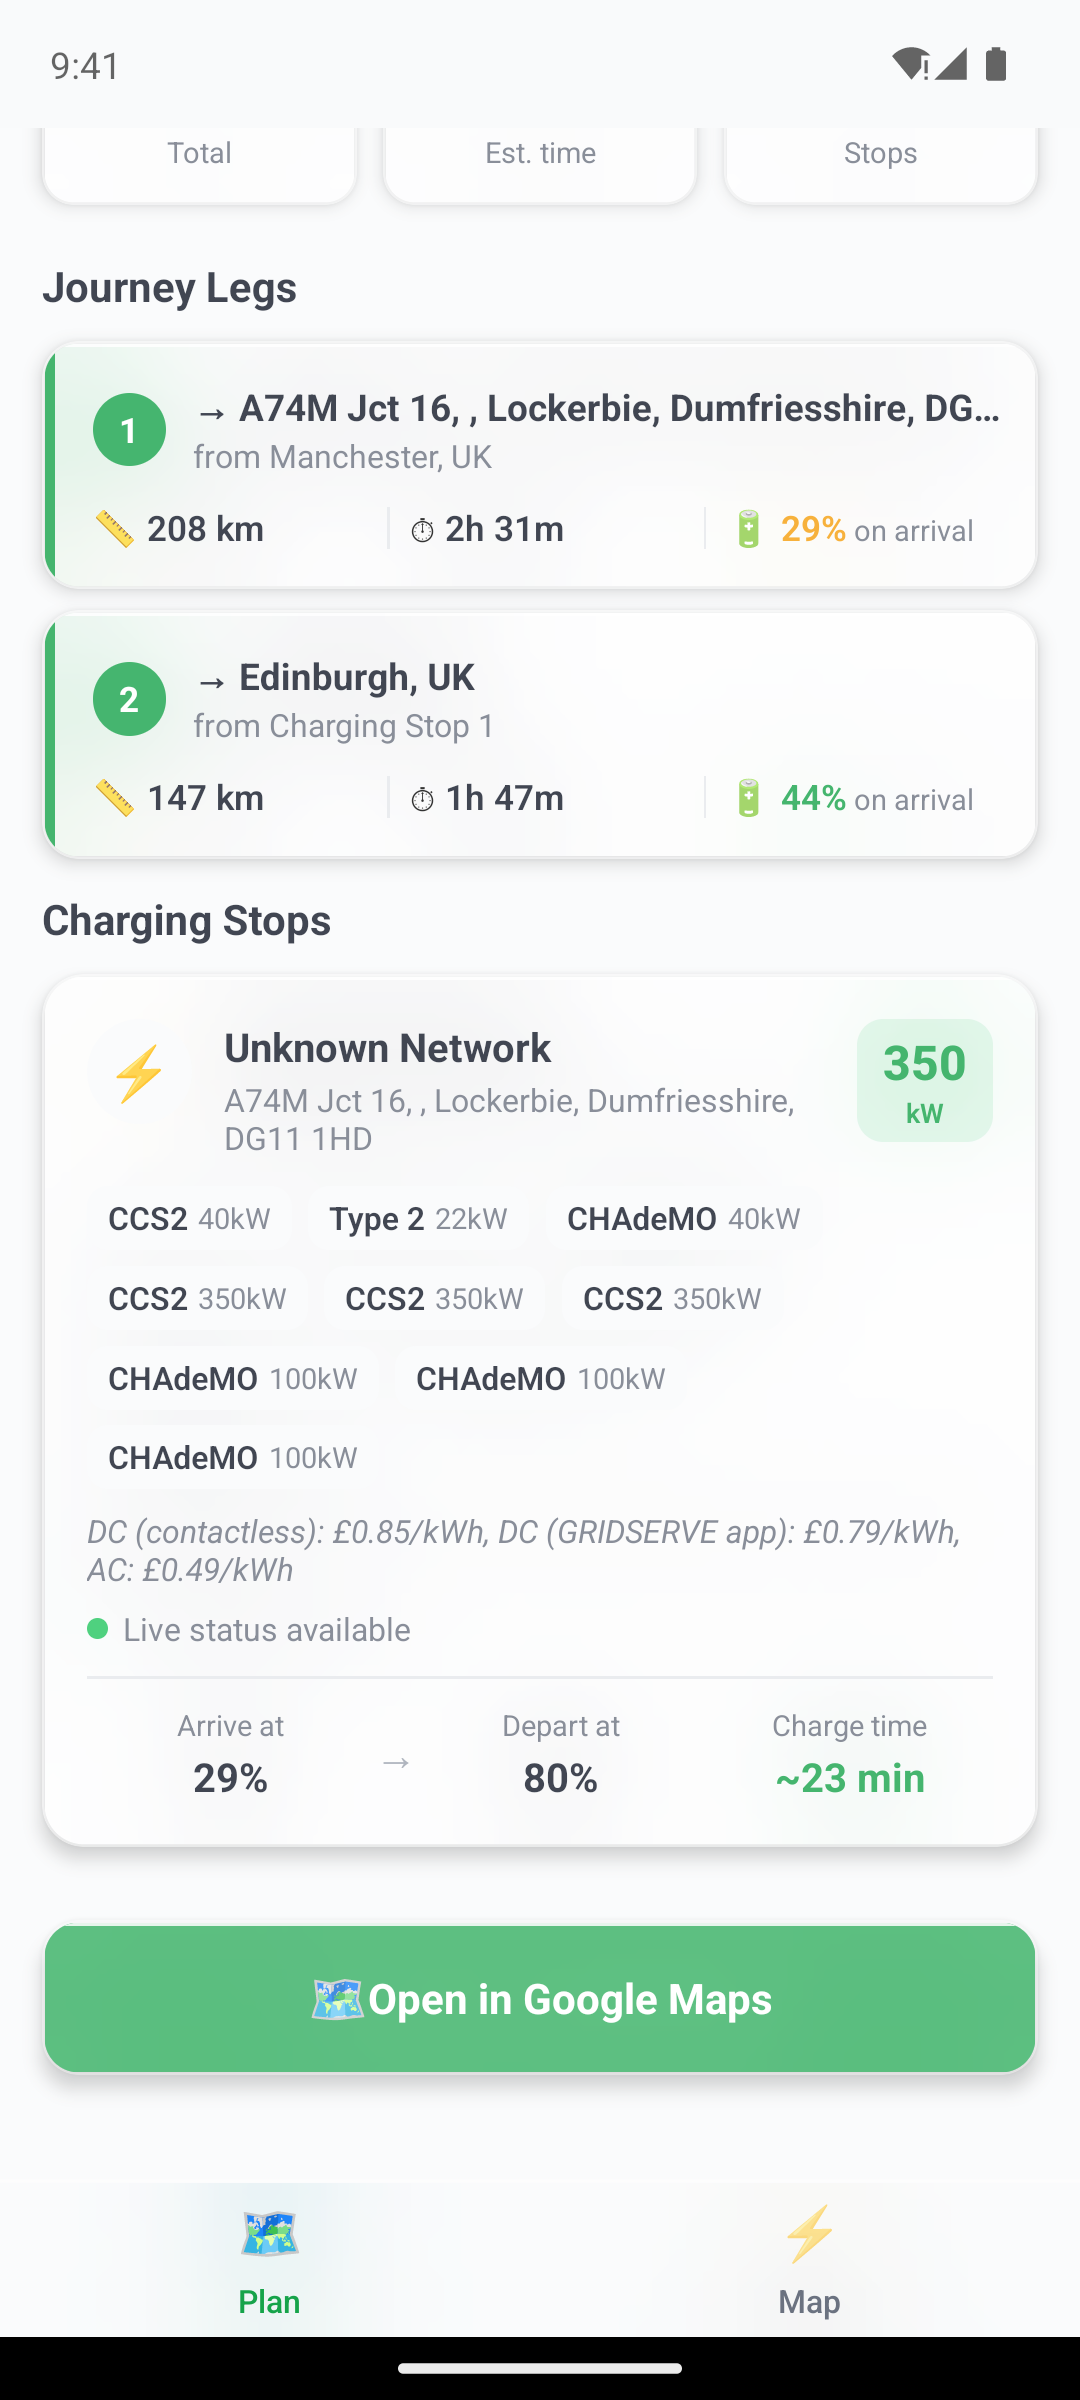
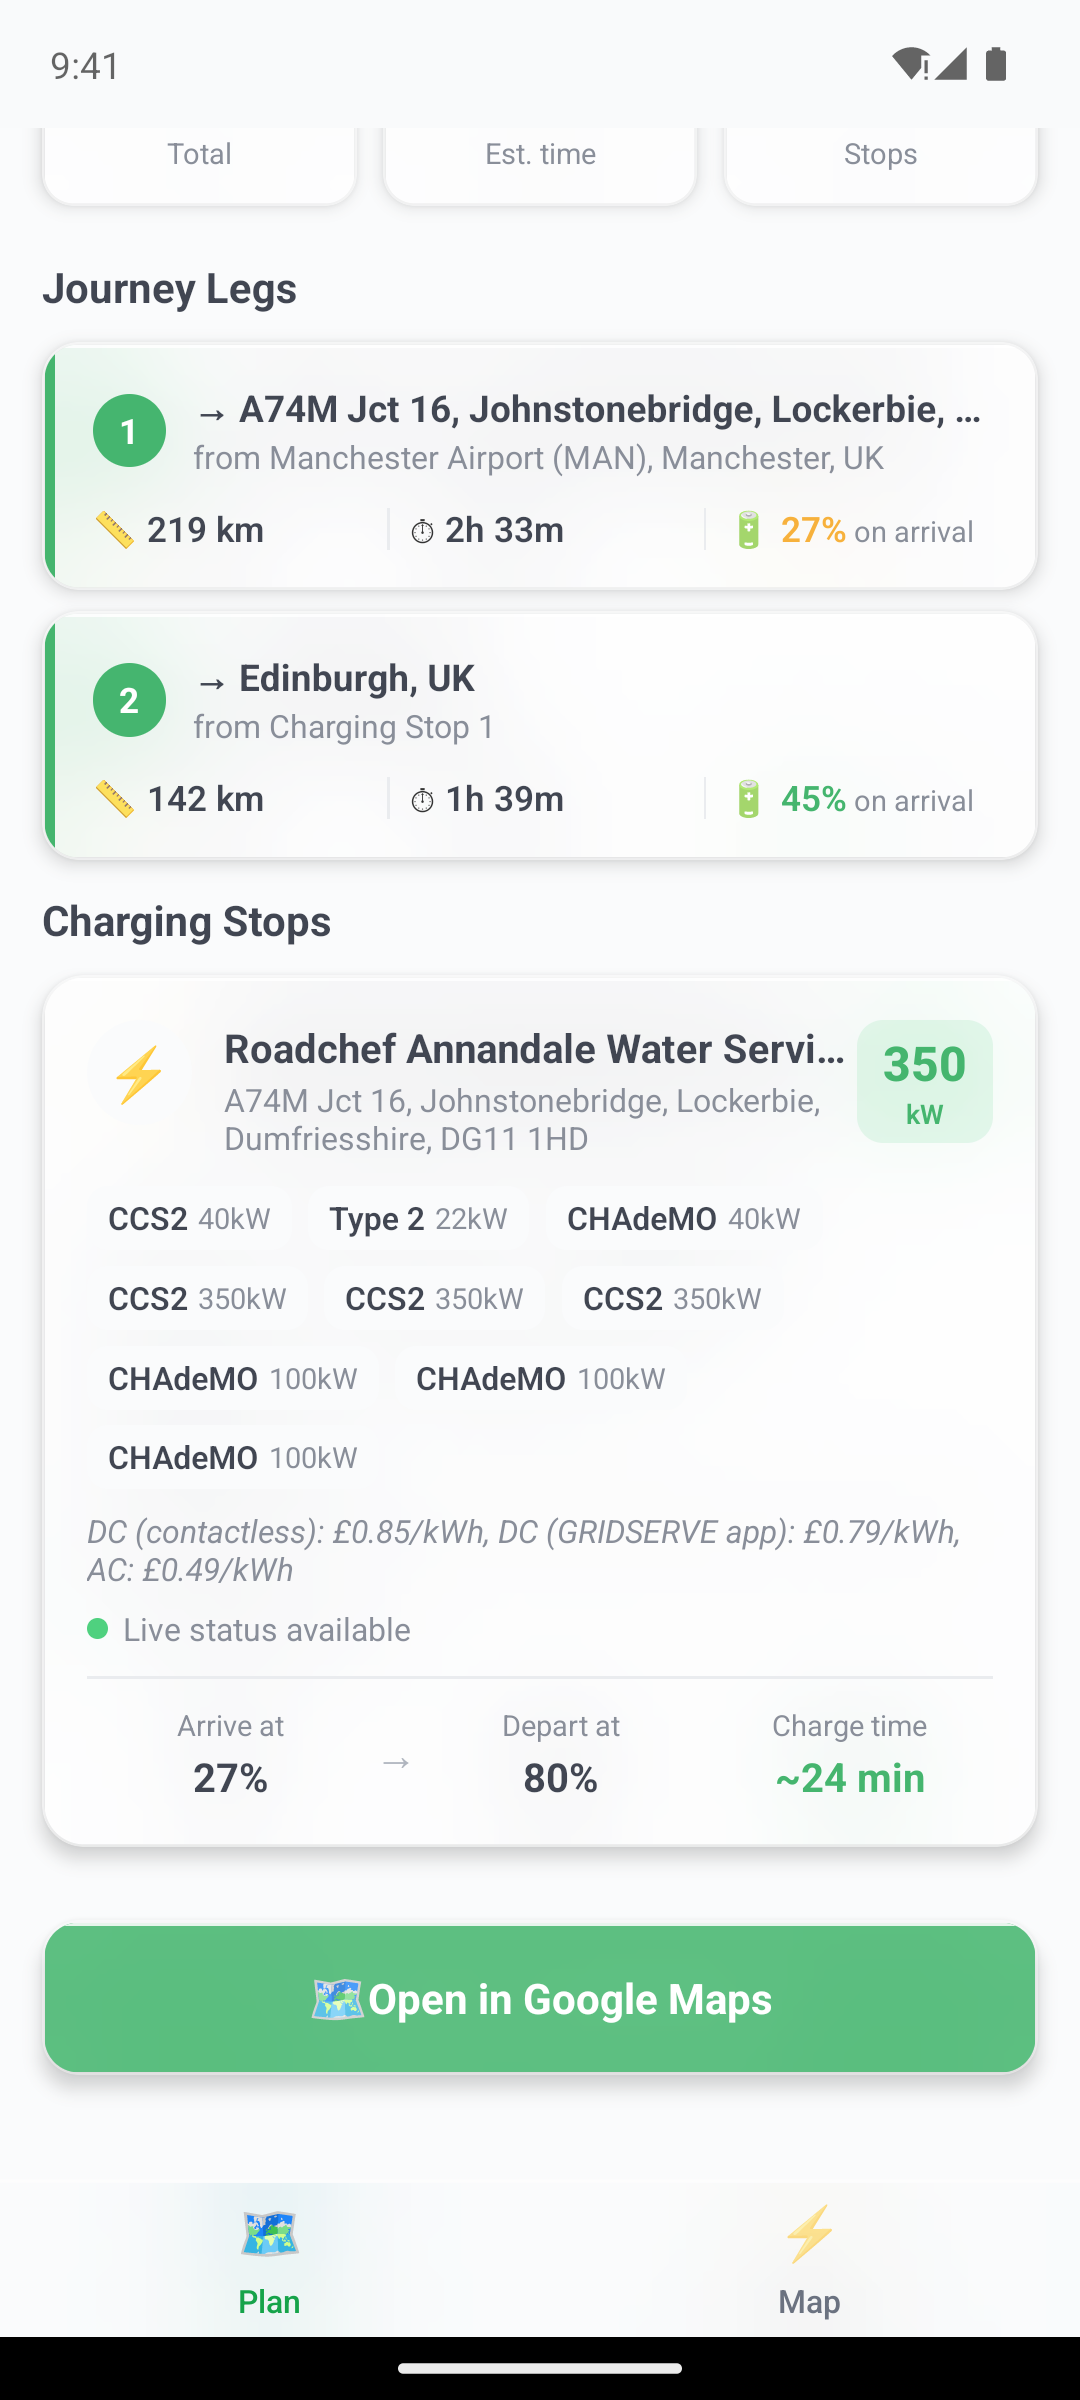
Fix Unknown Network and double-comma addresses in charger data
OCM's AddressLine1 sometimes ships with a trailing comma baked in (e.g.
'A74M Jct 16, '), and AddressLine2 was a real field we weren't including —
this produced addresses like 'A74M Jct 16, , Lockerbie'. Trim each address
part and drop stray trailing commas before joining, and include
AddressLine2. Also fall back to the station's own title (AddressInfo.Title)
before 'Unknown Network' when OCM has no operator info, since most POIs
that lack OperatorInfo still have a real name (e.g. 'Roadchef Annandale
Water Services').

Verified against live OCM data for the exact route (Manchester to
Edinburgh) that surfaced this, and refreshed the ad/store screenshots to
show the corrected output.

diff --git a/src/services/openChargeMap.ts b/src/services/openChargeMap.ts
@@ -192,16 +192,25 @@ function mapOCMItem(item: any): ChargerStation {
   const networkName =
     item.OperatorInfo?.Title ??
     item.OperatorInfo?.WebsiteURL ??
+    addr.Title ??
     'Unknown Network';
 
+  // OCM's AddressLine1 sometimes ships with a trailing comma baked in (e.g.
+  // "A74M Jct 16, "), and AddressLine2 is a real field we weren't including —
+  // trim each part and drop stray trailing commas so joining never produces
+  // double commas or an "Unknown Network"-only address.
   const address = [
     addr.AddressLine1,
+    addr.AddressLine2,
     addr.Town,
     addr.StateOrProvince,
     addr.Postcode,
     addr.Country?.ISOCode,
   ]
-    .filter(Boolean)
+    .map((part: unknown) =>
+      typeof part === 'string' ? part.trim().replace(/,+$/, '').trim() : part,
+    )
+    .filter((part): part is string => typeof part === 'string' && part.length > 0)
     .join(', ');
 
   return {
